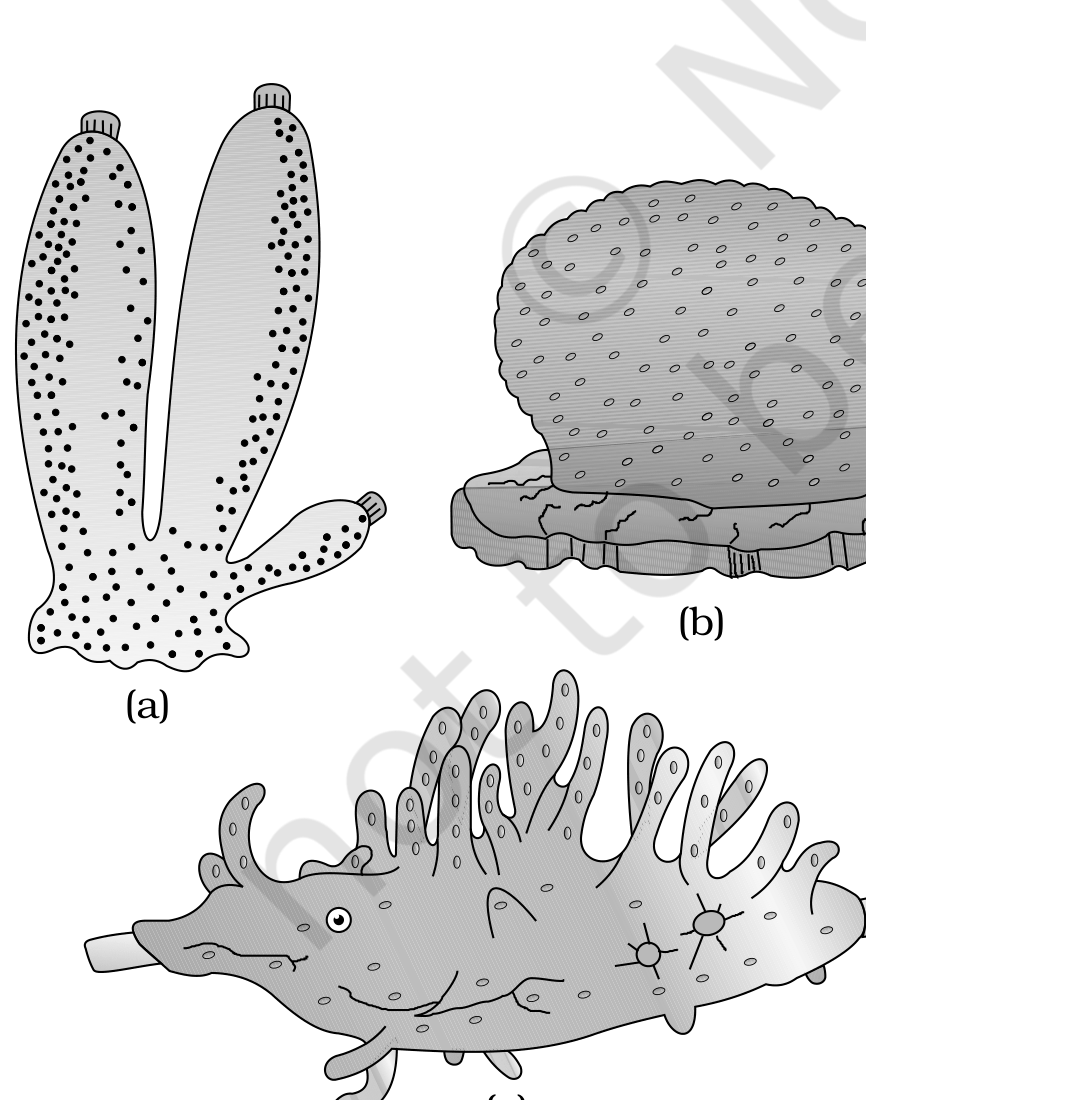
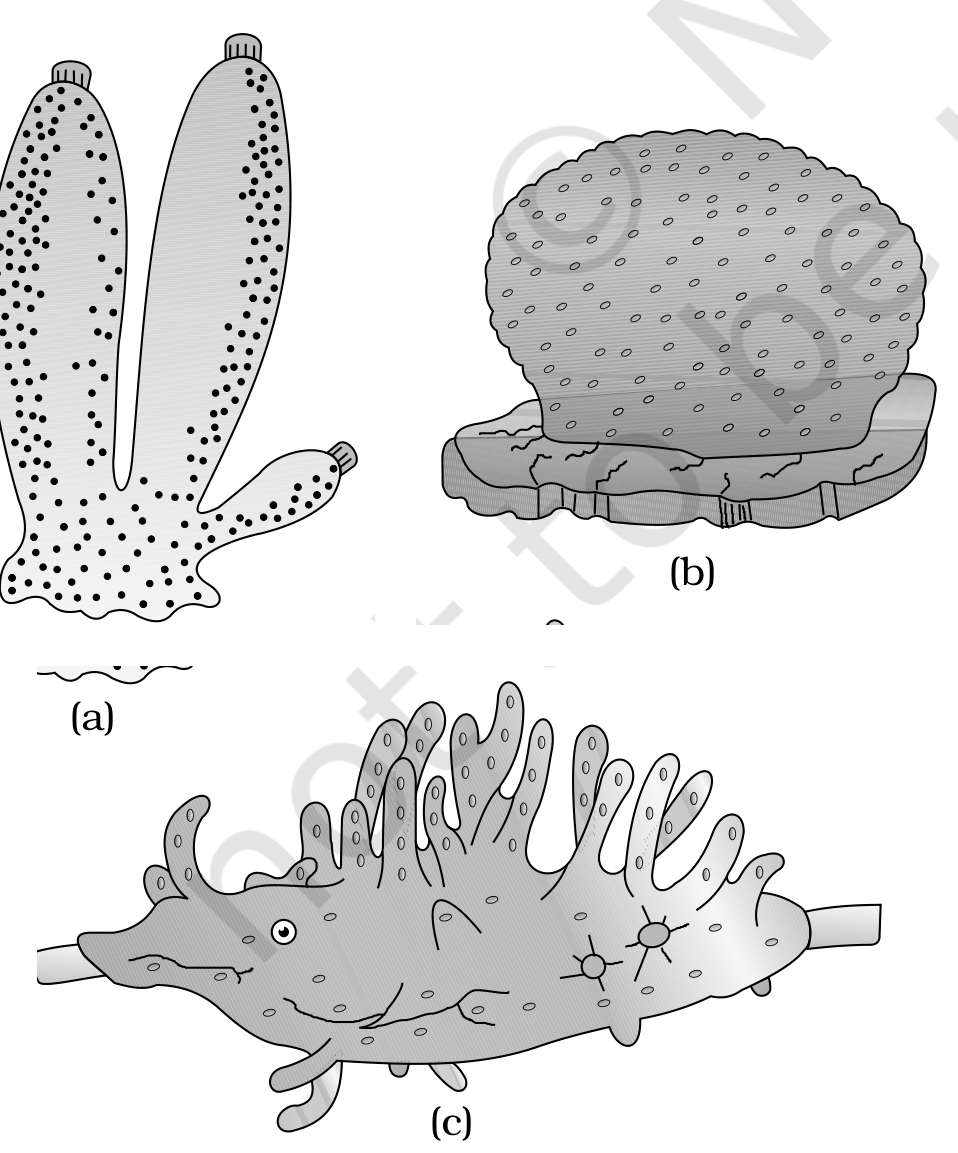
Refine Figure 4.5 and document Figure 4.4 caption

Changed region(s): [[0.0303, 0.0, 0.999, 1.0], [0.0, 0.0309, 0.3935, 0.68], [0.9687, 0.0927, 1.0, 0.1236]]

diff --git a/notes/class 11/Ch4_AnimalKingdom/extract_figures.py b/notes/class 11/Ch4_AnimalKingdom/extract_figures.py
@@ -22,7 +22,7 @@ FIGURES = [
     ('4_2ab', 2, (58,510,302,681), 'p2 corrected right edge: extends beyond the right cross-section and retains all germ-layer labels and (a)/(b); excludes caption'),
     ('4_3abc', 3, (278,164,532,408), 'p3 coelom/pseudocoelom/acoelomate three-panel diagram; includes headings and (a)/(b)/(c), stops before caption'),
     ('4_4', 4, (58,96,534,342), 'p4 corrected bottom edge: stops below the classification diagram and above the footnote/caption'),
-    ('4_5abc', 4, (58,408,315,672), 'p4 corrected right edge: includes the complete Spongilla artwork and markers; the separate prose strip at x300–315 is scrubbed after rendering'),
+    ('4_5abc', 4, (65,420,315,674), 'p4 4× grid repin: complete Sycon, Euspongia, Spongilla artwork and (a)–(c) markers; prose column begins at x=300 and is masked after rendering'),
     ('4_6ab', 5, (84,204,430,432), 'p5 Cnidaria polyp/medusa plate; includes both forms and (a)/(b), excludes caption'),
     ('4_7', 5, (416,470,510,618), 'p5 cnidoblast diagram; includes complete leader/label structure, excludes caption'),
     ('4_8', 6, (54,96,220,355), 'p6 corrected top edge: includes the complete Pleurobrachia ctenophore tip with compact upper padding'),
@@ -54,13 +54,23 @@ def main():
         pix = page.get_pixmap(clip=rect, dpi=DPI, alpha=False)
         img = Image.frombytes('RGB', (pix.width, pix.height), pix.samples).convert('L')
         img = ImageOps.autocontrast(img, cutoff=1)
-        # Figure 4.5c touches the neighboring prose column in the source layout.
-        # Extend the crop to keep the artwork complete, then remove only the prose strip.
         if fid == '4_5abc':
+            # Compose three clean sub-crops so the neighboring prose column cannot bleed
+            # into the grouped asset. Rectangles are pinned from the 4× page grid.
             k = DPI / 72.0
-            # The prose column begins beyond x=266; the full Spongilla artwork ends
-            # before that boundary. Whiten only the confirmed prose strip.
-            img.paste(255, (int((266-box[0])*k), 0, img.width, img.height))
+            full = page.get_pixmap(dpi=DPI, alpha=False)
+            page_img = Image.frombytes('RGB', (full.width, full.height), full.samples).convert('L')
+            def subcrop(b):
+                return page_img.crop(tuple(int(v*k) for v in b))
+            a = subcrop((65, 420, 155, 570))
+            b = subcrop((160, 420, 290, 570))
+            c = subcrop((80, 565, 292, 682))
+            gap = int(10*k)
+            canvas = Image.new('L', (max(a.width+b.width+gap, c.width), a.height+c.height+gap), 255)
+            canvas.paste(a, (0, 0))
+            canvas.paste(b, (a.width+gap, 0))
+            canvas.paste(c, ((canvas.width-c.width)//2, a.height+gap))
+            img = ImageOps.autocontrast(canvas, cutoff=1)
         out = ASSETS / f'fig_{fid}.png'
         img.save(out)
         print(f'{out.name}: p{pno} rect={tuple(box)} size={img.size} mode={img.mode}')

diff --git a/notes/class 11/Ch4_AnimalKingdom/Ch4_figure_audit.md b/notes/class 11/Ch4_AnimalKingdom/Ch4_figure_audit.md
@@ -2,7 +2,7 @@
 
 ## Method
 
-The source PDF was inspected with 110 dpi coordinate grids and the figure rectangles were hand-pinned in PDF points. Crops were rendered at 300 dpi, converted with `Image.convert("L")`, and passed through `ImageOps.autocontrast(cutoff=1)`. This guarantees that emitted PNGs have one grayscale channel and avoids color-dependent print failures.
+The source PDF was inspected with coordinate grids, including a **4× high-density grid (440 dpi render with 5-point spacing)** for the Figure 4.5 refinement, and the figure rectangles were hand-pinned in PDF points. Crops were rendered at 300 dpi, converted with `Image.convert("L")`, and passed through `ImageOps.autocontrast(cutoff=1)`. This guarantees that emitted PNGs have one grayscale channel and avoids color-dependent print failures.
 
 ## Mechanical checks
 
@@ -23,7 +23,7 @@ The reported defects were corrected as follows: Figures 4.18 and 4.19 were shift
 
 ## Visual review record
 
-The final focused review sheet is `scratch/ch4_fix_final_contact.png`; the corrected seven-asset set was inspected at enlarged scale after regeneration. Earlier full contact sheets and audit logs remain in `scratch/` for reproducibility. The final asset set contains all numbered figure plates from 4.1 through 4.24, with multi-part plates preserved as grouped assets where that improves label visibility, plus the explicitly marked unnumbered Vertebrata chart. Captions are documented in the inventory rather than needlessly repeated inside the image assets.
+The final focused review sheet is `scratch/ch4_fix_final_contact.png`; the corrected seven-asset set was inspected at enlarged scale after regeneration. Figure 4.5 is emitted as a compact composite of independently cropped Sycon, Euspongia, and Spongilla subfigures, with a controlled approximately 10 pt inter-panel gap and all `(a)–(c)` markers visible. Earlier full contact sheets and audit logs remain in `scratch/` for reproducibility. The final asset set contains all numbered figure plates from 4.1 through 4.24, with multi-part plates preserved as grouped assets where that improves label visibility, plus the explicitly marked unnumbered Vertebrata chart. Captions are documented in the inventory rather than needlessly repeated inside the image assets.
 
 ## Reproducibility
 

diff --git a/notes/class 11/Ch4_AnimalKingdom/Ch4_AnimalKingdom_inventory.md b/notes/class 11/Ch4_AnimalKingdom/Ch4_AnimalKingdom_inventory.md
@@ -10,7 +10,7 @@ The assets are rendered from hand-pinned PDF-point rectangles at 300 dpi, conver
 | `fig_4_1b.png` | 2 | Bilateral symmetry | Bilateral guide plane and crab retained |
 | `fig_4_2ab.png` | 2 | Diploblastic / triploblastic germinal layers | Mesoglea, Ectoderm, Endoderm, Mesoderm, `(a)`, `(b)` retained |
 | `fig_4_3abc.png` | 3 | Coelom, pseudocoelom, acoelomate sections | Headings and `(a)`–`(c)` retained |
-| `fig_4_4.png` | 4 | Broad classification of Kingdom Animalia | All taxonomy nodes retained |
+| `fig_4_4.png` | 4 | **Figure 4.4 — Broad classification of Kingdom Animalia based on common fundamental features** | All taxonomy nodes retained; accompanying footnote preserved in documentation: “*Echinodermata exhibits radial or bilateral symmetry depending on the stage.”** |
 | `fig_4_5abc.png` | 4 | Porifera: Sycon, Euspongia, Spongilla | `(a)`–`(c)` retained |
 | `fig_4_6ab.png` | 5 | Cnidaria body forms | Polyp/medusa forms and `(a)`, `(b)` retained |
 | `fig_4_7.png` | 5 | Cnidoblast diagram | Complete diagram retained |
@@ -32,6 +32,10 @@ The assets are rendered from hand-pinned PDF-point rectangles at 300 dpi, conver
 | `fig_4_23abcd.png` | 14 | Bird examples | Neophron, Struthio, Psittacula, Pavo and `(a)`–`(d)` retained |
 | `fig_4_24abcd.png` | 14 | Mammal examples | Ornithorhynchus, Macropus, Pteropus, Balaenoptera and `(a)`–`(d)` retained |
 | `fig_vertebrata_chart.png` | 11 | Bonus unnumbered Vertebrata division chart | All chart nodes retained; explicitly bonus/un-numbered |
+
+## Figure 4.4 caption and footnote
+
+The exact printed caption associated with `fig_4_4.png` is: **“Figure 4.4 Broad classification of Kingdom Animalia based on common fundamental features.”** The exact accompanying footnote is: **“*Echinodermata exhibits radial or bilateral symmetry depending on the stage.”** The footnote is part of the Figure 4.4 documentation and must not be omitted from any notes rewrite.
 
 ## Label matrix and running-text documentation
 
